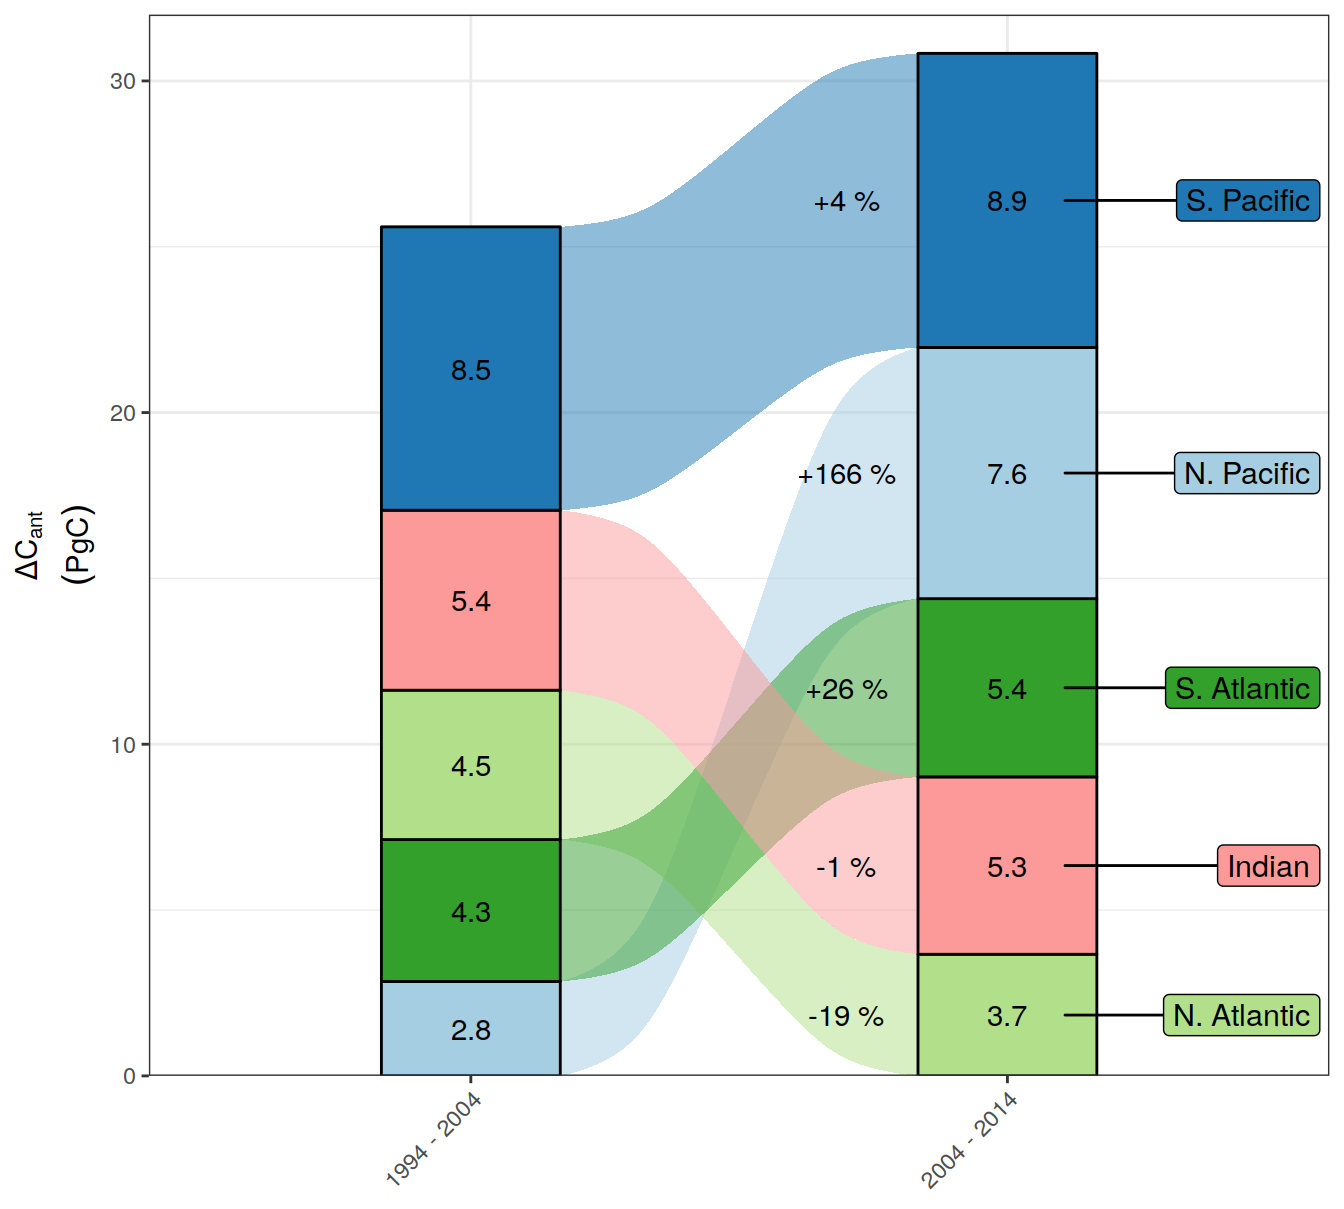
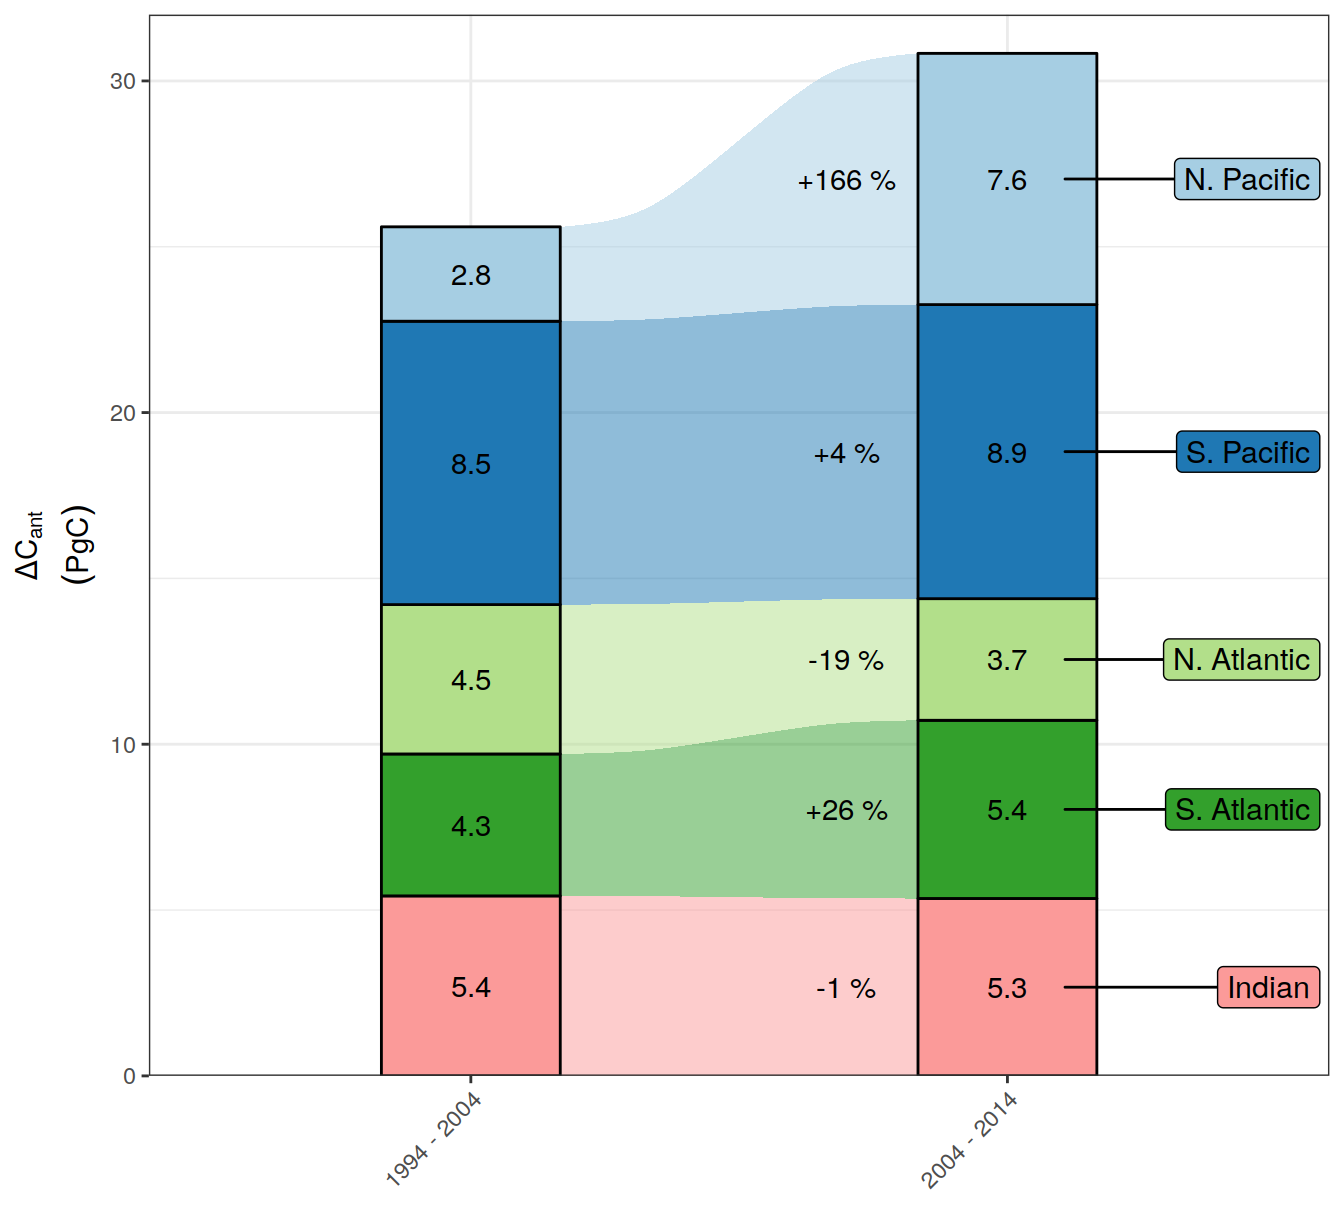
Build site.

diff --git a/docs/results_publication.html b/docs/results_publication.html
@@ -645,16 +645,16 @@ This reproducible <a href="http://rmarkdown.rstudio.com">R Markdown</a> analysis
 <div class="panel panel-default">
 <div class="panel-heading">
 <p class="panel-title">
-<a data-toggle="collapse" data-parent="#workflowr-checks" href="#strongRepositoryversionstrongahrefhttpsgithubcomjensdanielmuelleremlrobsanalysistree2eb2567026acf264d28a01a2d68ab54ba76aaaf0targetblank2eb2567a"> <span class="glyphicon glyphicon-ok text-success" aria-hidden="true"></span> <strong>Repository version:</strong> <a href="https://github.com/jens-daniel-mueller/emlr_obs_analysis/tree/2eb2567026acf264d28a01a2d68ab54ba76aaaf0" target="_blank">2eb2567</a> </a>
+<a data-toggle="collapse" data-parent="#workflowr-checks" href="#strongRepositoryversionstrongahrefhttpsgithubcomjensdanielmuelleremlrobsanalysistreee58f510c6ac0539974ae3e1a6c8241606859df5ftargetblanke58f510a"> <span class="glyphicon glyphicon-ok text-success" aria-hidden="true"></span> <strong>Repository version:</strong> <a href="https://github.com/jens-daniel-mueller/emlr_obs_analysis/tree/e58f510c6ac0539974ae3e1a6c8241606859df5f" target="_blank">e58f510</a> </a>
 </p>
 </div>
[2 lines of base64/hex data omitted]
 <div class="panel-body">
 <p>
 Great! You are using Git for version control. Tracking code development and connecting the code version to the results is critical for reproducibility.
 </p>
 <p>
-The results in this page were generated with repository version <a href="https://github.com/jens-daniel-mueller/emlr_obs_analysis/tree/2eb2567026acf264d28a01a2d68ab54ba76aaaf0" target="_blank">2eb2567</a>. See the <em>Past versions</em> tab to see a history of the changes made to the R Markdown and HTML files.
+The results in this page were generated with repository version <a href="https://github.com/jens-daniel-mueller/emlr_obs_analysis/tree/e58f510c6ac0539974ae3e1a6c8241606859df5f" target="_blank">e58f510</a>. See the <em>Past versions</em> tab to see a history of the changes made to the R Markdown and HTML files.
 </p>
 <p>
 Note that you need to be careful to ensure that all relevant files for the analysis have been committed to Git prior to generating the results (you can use <code>wflow_publish</code> or <code>wflow_git_commit</code>). workflowr only checks the R Markdown file, but you know if there are other scripts or data files that it depends on. Below is the status of the Git repository when the results were generated:
@@ -704,6 +704,40 @@ Message
 </tr>
 </thead>
 <tbody>
+<tr>
+<td>
+Rmd
+</td>
+<td>
+<a href="https://github.com/jens-daniel-mueller/emlr_obs_analysis/blob/e58f510c6ac0539974ae3e1a6c8241606859df5f/analysis/results_publication.Rmd" target="_blank">e58f510</a>
+</td>
+<td>
+jens-daniel-mueller
+</td>
+<td>
+2022-01-20
+</td>
+<td>
+added relative changes to alluvial plots
+</td>
+</tr>
+<tr>
+<td>
+html
+</td>
+<td>
+<a href="https://rawcdn.githack.com/jens-daniel-mueller/emlr_obs_analysis/b503ae14f27cee94cd6df052d19eb76ffb8ce408/docs/results_publication.html" target="_blank">b503ae1</a>
+</td>
+<td>
+jens-daniel-mueller
+</td>
+<td>
+2022-01-20
+</td>
+<td>
+Build site.
+</td>
+</tr>
 <tr>
 <td>
 Rmd
@@ -1544,7 +1578,40 @@ jens-daniel-mueller
   theme(axis.text.x = element_text(angle = 45, hjust = 1),
         axis.title.x = element_blank())
 
-g1</code></pre>
+newdat &lt;- tibble(layer_data(g1))
+
+change &lt;- 
+  newdat %&gt;% 
+  select(x, alluvium, count) %&gt;% 
+  pivot_wider(names_from = x,
+              values_from = count) %&gt;% 
+  mutate(dcant_change = round(100*(`2` - `1`) / `1`)) %&gt;% 
+  select(alluvium, dcant_change)
+
+coord &lt;- newdat %&gt;%
+  filter(x == 2) %&gt;% 
+  select(x, y, alluvium)
+
+new_layer &lt;- full_join(
+  change,
+  coord
+)
+
+new_layer &lt;- new_layer %&gt;% 
+  mutate(dcant_change = as.character(dcant_change),
+         dcant_change = if_else(str_detect(dcant_change, &quot;-&quot;),
+                                dcant_change,
+                                paste0(&quot;+&quot;, dcant_change)),
+         dcant_change = paste(dcant_change, &quot;%&quot;))
+
+g1 +
+  geom_text(data = new_layer,
+            aes(
+              x = x - 0.3,
+              y = y,
+              label = dcant_change
+            ),
+            inherit.aes = FALSE)</code></pre>
 <p><img src="figure/results_publication.Rmd/cases_absolute_basins_hemisphere_alluvial-1.png" width="672" style="display: block; margin: auto;" /></p>
 <p>
 <button type="button" class="btn btn-default btn-xs btn-workflowr btn-workflowr-fig" data-toggle="collapse" data-target="#fig-cases_absolute_basins_hemisphere_alluvial-1">
@@ -1568,6 +1635,17 @@ Date
 </tr>
 </thead>
 <tbody>
+<tr>
+<td>
+<a href="https://github.com/jens-daniel-mueller/emlr_obs_analysis/blob/b503ae14f27cee94cd6df052d19eb76ffb8ce408/docs/figure/results_publication.Rmd/cases_absolute_basins_hemisphere_alluvial-1.png" target="_blank">b503ae1</a>
+</td>
+<td>
+jens-daniel-mueller
+</td>
+<td>
+2022-01-20
+</td>
+</tr>
 <tr>
 <td>
 <a href="https://github.com/jens-daniel-mueller/emlr_obs_analysis/blob/cc31f4b938f8efc97cf2dcce9ca1d9c44eea5726/docs/figure/results_publication.Rmd/cases_absolute_basins_hemisphere_alluvial-1.png" target="_blank">cc31f4b</a>
@@ -1616,7 +1694,39 @@ jens-daniel-mueller
 </table>
 </div>
 </div>
-<pre class="r"><code>newdat &lt;- tibble(layer_data(g1))
+<pre class="r"><code>g2 &lt;- dcant_budget_basin_MLR_all_plot %&gt;%
+  ggplot(aes(
+    y = dcant,
+    x = period,
+    alluvium = basin,
+    fill  = basin,
+    stratum = basin,
+    label = basin
+  )) +
+  geom_alluvium() +
+  geom_stratum() +
+  stat_stratum(geom = &quot;text&quot;,
+               aes(label = paste(
+                 round(after_stat(count),1)
+                 # 100*round(after_stat(prop), 2), &quot;%&quot;
+                 ))) +
+  ggrepel::geom_label_repel(
+    data = dcant_budget_basin_MLR_all_plot %&gt;% filter(period == &quot;2004 - 2014&quot;),
+    stat = &quot;stratum&quot;,
+    size = 4,
+    nudge_x = .5,
+    point.padding = 3,
+    aes(fill = basin)
+  )+
+  scale_fill_brewer(palette = &quot;Paired&quot;, guide = &quot;none&quot;) +
+  scale_color_brewer(palette = &quot;Paired&quot;, guide = &quot;none&quot;) +
+  scale_y_continuous(limits = c(0, 32), expand = c(0, 0)) +
+  labs(y = dcant_budget) +
+  theme(axis.text.x = element_text(angle = 45, hjust = 1),
+        axis.title.x = element_blank())
+
+
+newdat &lt;- tibble(layer_data(g2))
 
 change &lt;- 
   newdat %&gt;% 
@@ -1642,7 +1752,7 @@ new_layer &lt;- new_layer %&gt;%
                                 paste0(&quot;+&quot;, dcant_change)),
          dcant_change = paste(dcant_change, &quot;%&quot;))
 
-g1 +
+g2 +
   geom_text(data = new_layer,
             aes(
               x = x - 0.3,
@@ -1673,6 +1783,17 @@ Date
 </tr>
 </thead>
 <tbody>
+<tr>
+<td>
+<a href="https://github.com/jens-daniel-mueller/emlr_obs_analysis/blob/b503ae14f27cee94cd6df052d19eb76ffb8ce408/docs/figure/results_publication.Rmd/cases_absolute_basins_hemisphere_alluvial-2.png" target="_blank">b503ae1</a>
+</td>
+<td>
+jens-daniel-mueller
+</td>
+<td>
+2022-01-20
+</td>
+</tr>
 <tr>
 <td>
 <a href="https://github.com/jens-daniel-mueller/emlr_obs_analysis/blob/11a800bfd09db67915c75e670a47ec7716e62580/docs/figure/results_publication.Rmd/cases_absolute_basins_hemisphere_alluvial-2.png" target="_blank">11a800b</a>
@@ -1721,75 +1842,6 @@ jens-daniel-mueller
 </table>
 </div>
 </div>
-<pre class="r"><code>g2 &lt;- dcant_budget_basin_MLR_all_plot %&gt;%
-  ggplot(aes(
-    y = dcant,
-    x = period,
-    alluvium = basin,
-    fill  = basin,
-    stratum = basin,
-    label = basin
-  )) +
-  geom_alluvium() +
-  geom_stratum() +
-  stat_stratum(geom = &quot;text&quot;,
-               aes(label = paste(
-                 round(after_stat(count),1)
-                 # 100*round(after_stat(prop), 2), &quot;%&quot;
-                 ))) +
-  ggrepel::geom_label_repel(
-    data = dcant_budget_basin_MLR_all_plot %&gt;% filter(period == &quot;2004 - 2014&quot;),
-    stat = &quot;stratum&quot;,
-    size = 4,
-    nudge_x = .5,
-    point.padding = 3,
-    aes(fill = basin)
-  )+
-  scale_fill_brewer(palette = &quot;Paired&quot;, guide = &quot;none&quot;) +
-  scale_color_brewer(palette = &quot;Paired&quot;, guide = &quot;none&quot;) +
-  scale_y_continuous(limits = c(0, 32), expand = c(0, 0)) +
-  labs(y = dcant_budget) +
-  theme(axis.text.x = element_text(angle = 45, hjust = 1),
-        axis.title.x = element_blank())
-
-
-g2</code></pre>
-<p><img src="figure/results_publication.Rmd/cases_absolute_basins_hemisphere_alluvial-3.png" width="672" style="display: block; margin: auto;" /></p>
-<pre class="r"><code>newdat &lt;- tibble(layer_data(g2))
-
-change &lt;- 
-  newdat %&gt;% 
-  select(x, alluvium, count) %&gt;% 
-  pivot_wider(names_from = x,
-              values_from = count) %&gt;% 
-  mutate(dcant_change = round(100*(`2` - `1`) / `1`)) %&gt;% 
-  select(alluvium, dcant_change)
-
-coord &lt;- newdat %&gt;%
-  filter(x == 2) %&gt;% 
-  select(x, y, alluvium)
-
-new_layer &lt;- full_join(
-  change,
-  coord
-)
-
-new_layer &lt;- new_layer %&gt;% 
-  mutate(dcant_change = as.character(dcant_change),
-         dcant_change = if_else(str_detect(dcant_change, &quot;-&quot;),
-                                dcant_change,
-                                paste0(&quot;+&quot;, dcant_change)),
-         dcant_change = paste(dcant_change, &quot;%&quot;))
-
-g2 +
-  geom_text(data = new_layer,
-            aes(
-              x = x - 0.3,
-              y = y,
-              label = dcant_change
-            ),
-            inherit.aes = FALSE)</code></pre>
-<p><img src="figure/results_publication.Rmd/cases_absolute_basins_hemisphere_alluvial-4.png" width="672" style="display: block; margin: auto;" /></p>
 <br>
 <p>
 <button type="button" class="btn btn-default btn-workflowr btn-workflowr-sessioninfo" data-toggle="collapse" data-target="#workflowr-sessioninfo" style="display: block;">
